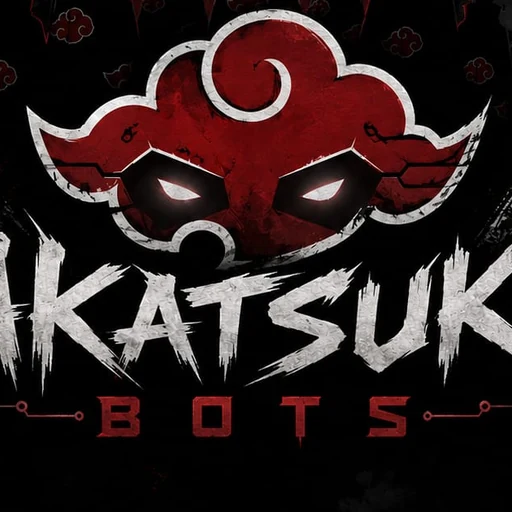
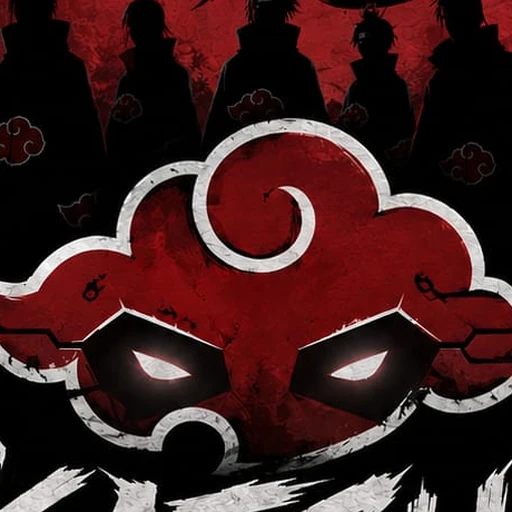
feat: add official contact and core team branding

diff --git a/frontend/src/App.tsx b/frontend/src/App.tsx
@@ -1,17 +1,17 @@
 import {useEffect,useRef,useState} from 'react';import {Link,NavLink,Route,Routes,useLocation} from 'react-router-dom';import {AnimatePresence,motion,useReducedMotion,useScroll,useTransform} from 'framer-motion';import {ArrowDownRight,ArrowRight,ArrowUpRight,Menu,X,MoveUpRight, Cpu, Code2, Instagram, Linkedin, Github, Mail, Radio, Network, ChevronDown} from 'lucide-react';import {api,mediaUrl,submitApplication} from './api';import type {Member,Event,GalleryImage,Settings} from './api/types';
-const fallback:Settings={club_name:'AKATSUKI',tagline:'Build beyond the expected.',contact_email:'hello@akatsuki.club',instagram_url:'',linkedin_url:'',github_url:'',discord_url:'',college_name:'',footer_text:'Student technology community. Built by curious minds.'};
+const fallback:Settings={club_name:'AKATSUKI',tagline:'Build beyond the expected.',contact_email:'teamakatsukibots@gmail.com',instagram_url:'',linkedin_url:'',github_url:'',discord_url:'',college_name:'',footer_text:'Student technology community. Built by curious minds.'};
 const links=[['Home','/'],['About','/about'],['Domains','/domains'],['Members','/members'],['Events','/events'],['Gallery','/gallery']];
 function BrandIcon(){const [available,setAvailable]=useState(true);return <span className="brand-mark">{available?<img src="/akatsuki-mark.webp" alt="" onError={()=>setAvailable(false)}/> : "A"}</span>}
-function BrandLoader(){const reduce=useReducedMotion();return <motion.div className="brand-loader" initial={{opacity:1}} animate={{opacity:1}} exit={{opacity:0}} transition={{duration:reduce?0:.45}}><motion.img src="/akatsuki-mark.webp" alt="AKATSUKI logo" initial={reduce?false:{opacity:0,scale:.84,filter:'blur(8px)'}} animate={{opacity:1,scale:1,filter:'blur(0px)'}} transition={{duration:reduce?0:.8,ease:[.22,1,.36,1]}}/><div className="mono">AKATSUKI <span>/// SYSTEMS ONLINE</span></div><div className="loader-track"><motion.span initial={{scaleX:0}} animate={{scaleX:1}} transition={{duration:1.05,ease:'easeInOut'}}/></div></motion.div>}
+function BrandLoader(){const reduce=useReducedMotion();return <motion.div className="brand-loader" initial={{opacity:1}} animate={{opacity:1}} exit={{opacity:0}} transition={{duration:reduce?0:.45}}><motion.img src="/akatsuki-full.webp" alt="AKATSUKI BOTS logo" initial={reduce?false:{opacity:0,scale:.84,filter:'blur(8px)'}} animate={{opacity:1,scale:1,filter:'blur(0px)'}} transition={{duration:reduce?0:.8,ease:[.22,1,.36,1]}}/><div className="mono">AKATSUKI <span>/// SYSTEMS ONLINE</span></div><div className="loader-track"><motion.span initial={{scaleX:0}} animate={{scaleX:1}} transition={{duration:1.05,ease:'easeInOut'}}/></div></motion.div>}
 function ScrollProgress(){const {scrollYProgress}=useScroll();return <motion.div aria-hidden="true" className="scroll-progress" style={{scaleX:scrollYProgress}}/>}
 function App(){const [booting,setBooting]=useState(true);useEffect(()=>{const timer=window.setTimeout(()=>setBooting(false),1250);return()=>window.clearTimeout(timer)},[]);const [settings,setSettings]=useState(fallback);useEffect(()=>{api.settings().then(setSettings).catch(()=>{});},[]);return <><AnimatePresence>{booting&&<BrandLoader/>}</AnimatePresence><ScrollProgress/><Navbar/><AnimatePresence mode="wait"><Routes><Route path="/" element={<Home settings={settings}/>}/><Route path="/about" element={<About/>}/><Route path="/domains" element={<Domains/>}/><Route path="/members" element={<MembersPage/>}/><Route path="/events" element={<EventsPage/>}/><Route path="/gallery" element={<GalleryPage/>}/><Route path="/join" element={<Join/>}/><Route path="/contact" element={<Contact settings={settings}/>}/></Routes></AnimatePresence><Footer settings={settings}/></>}
 function Navbar(){const [open,setOpen]=useState(false),[scrolled,setScrolled]=useState(false);const location=useLocation();useEffect(()=>{const fn=()=>setScrolled(scrollY>24);window.addEventListener('scroll',fn);return()=>window.removeEventListener('scroll',fn)},[]);useEffect(()=>setOpen(false),[location.pathname]);return <header className={`nav ${scrolled?'nav-solid':''}`}><Link className="brand" to="/" aria-label="AKATSUKI home"><BrandIcon/><span>AKATSUKI<span className="brand-dot">.</span></span></Link><nav className="nav-links">{links.map(([label,to])=><NavLink key={to} to={to} end={to==='/'}>{label}</NavLink>)}</nav><Link to="/join" className="button button-small nav-cta">JOIN AKATSUKI <ArrowUpRight size={15}/></Link><button className="menu-toggle" onClick={()=>setOpen(!open)} aria-label={open?'Close menu':'Open menu'}>{open?<X/>:<Menu/>}</button>{open&&<motion.nav className="mobile-menu" initial={{opacity:0,y:-8}} animate={{opacity:1,y:0}}>{links.map(([label,to])=><Link key={to} to={to}>{label}<ArrowUpRight size={16}/></Link>)}<Link className="mobile-join" to="/join">JOIN AKATSUKI <ArrowRight size={16}/></Link></motion.nav>}</header>}
 function Footer({settings}:{settings:Settings}){return <footer className="footer"><div className="footer-main"><div><Link to="/" className="brand footer-brand"><BrandIcon/><span>AKATSUKI<span className="brand-dot">.</span></span></Link><p>{settings.footer_text}</p><div className="socials">{settings.github_url&&<a href={settings.github_url} aria-label="GitHub"><Github/></a>}{settings.linkedin_url&&<a href={settings.linkedin_url} aria-label="LinkedIn"><Linkedin/></a>}{settings.instagram_url&&<a href={settings.instagram_url} aria-label="Instagram"><Instagram/></a>}</div></div><div><div className="mono overline">EXPLORE</div><Link to="/about">About us</Link><Link to="/domains">Domains</Link><Link to="/members">Core team</Link></div><div><div className="mono overline">GET INVOLVED</div><Link to="/events">Events</Link><Link to="/gallery">Gallery</Link><Link to="/join">Join the team</Link></div><div><div className="mono overline">CONTACT</div><a href={`mailto:${settings.contact_email}`}>{settings.contact_email}</a>{settings.college_name&&<span>{settings.college_name}</span>}</div></div><div className="footer-bottom"><span>© {new Date().getFullYear()} {settings.club_name} — Student Technology Community</span><span className="mono">BUILT TO EXPLORE THE UNKNOWN <span className="brand-dot">●</span></span></div></footer>}
 function Page({eyebrow,title,children}:{eyebrow:string;title:React.ReactNode;children:React.ReactNode}){return <motion.main className="page" initial={{opacity:0,y:12}} animate={{opacity:1,y:0}} exit={{opacity:0,y:-8}} transition={{duration:.35}}><div className="page-head"><div className="mono overline">{eyebrow}</div><h1>{title}</h1></div>{children}</motion.main>}
 function Reveal({children,className=''}:{children:React.ReactNode;className?:string}){const reduce=useReducedMotion();return <motion.div className={className} initial={reduce?false:{opacity:0,y:25}} whileInView={{opacity:1,y:0}} viewport={{once:true,amount:.15}} transition={{duration:.6,ease:[.22,1,.36,1]}}>{children}</motion.div>}
-function Home({settings}:{settings:Settings}){const heroRef=useRef<HTMLElement>(null);const reduced=useReducedMotion();const {scrollYProgress:heroProgress}=useScroll({target:heroRef,offset:['start start','end start']});const logoY=useTransform(heroProgress,[0,1],[0,-145]);const logoScale=useTransform(heroProgress,[0,1],[1,.86]);const heroFade=useTransform(heroProgress,[0,.78],[1,.16]);const contentY=useTransform(heroProgress,[0,1],[0,-44]);const [members,setMembers]=useState<Member[]>([]),[events,setEvents]=useState<Event[]>([]);useEffect(()=>{api.members().then(setMembers).catch(()=>{});api.events().then(setEvents).catch(()=>{});},[]);return <main><section ref={heroRef} className="hero"><div className="hero-grid"/><div className="hero-orbit orbit-one"/><div className="hero-orbit orbit-two"/><div className="hero-ring"><span/></div><motion.img className="hero-logo" src="/akatsuki-full.webp" alt="AKATSUKI BOTS insignia" style={reduced?{y:0,scale:1,opacity:1}:{y:logoY,scale:logoScale,opacity:heroFade}} initial={reduced?false:{opacity:0,scale:.9}} animate={{opacity:.72,scale:1}} transition={{duration:1.15,delay:.2,ease:[.22,1,.36,1]}}/><motion.div className="hero-content" style={reduced?{y:0,opacity:1}:{y:contentY,opacity:heroFade}} initial={{opacity:0,y:24}} animate={{opacity:1,y:0}} transition={{duration:.8,delay:.1}}><div className="mono hero-kicker"><span className="status-dot"/> STUDENT ENGINEERING COLLECTIVE <span className="kicker-line"/></div><h1>AKATSUKI<span className="hero-period">.</span></h1><div className="hero-subtitle"><span className="red-rule"/>BUILD BEYOND THE EXPECTED</div><p>A student-driven technical community exploring robotics, artificial intelligence and the systems shaping tomorrow.</p><div className="hero-actions"><Link to="/join" className="button">JOIN AKATSUKI <ArrowUpRight size={17}/></Link><Link to="/domains" className="button button-ghost">EXPLORE OUR DOMAINS <ArrowDownRight size={17}/></Link></div></motion.div><div className="hero-side mono">AKATSUKI <span>BUILD / RESEARCH / COMMUNITY</span></div><div className="hero-bottom"><span className="mono">01 / 04 — BUILDING WHAT’S NEXT</span><a href="#intro" className="scroll-link mono">SCROLL TO EXPLORE <ChevronDown size={15}/></a><span className="mono">17° 23' N — 78° 29' E</span></div><div className="hero-glow"/></section><section id="intro" className="intro-section section-wrap"><div className="section-index mono">01 <span>— WHO WE ARE</span></div><div className="intro-copy"><h2>We turn <em>curiosity</em><br/>into capability.</h2><p>AKATSUKI is a student-built engineering collective. We bring ambitious people together to learn by making—connecting physical systems with intelligent software to solve real problems.</p><Link to="/about" className="text-link">MEET AKATSUKI <ArrowUpRight size={16}/></Link></div><div className="intro-stamp"><span>技術</span><small>TECHNOLOGY<br/>WITHOUT LIMITS</small></div></section><section className="domain-preview"><div className="section-wrap"><div className="section-heading"><div><div className="mono overline">02 — OUR DOMAINS</div><h2>Two sides.<br/><em>One purpose.</em></h2></div><Link className="text-link" to="/domains">EXPLORE THE DOMAINS <ArrowUpRight size={16}/></Link></div><div className="domain-grid"><DomainTile kind="hardware"/><DomainTile kind="software"/></div></div></section><section className="team-preview section-wrap"><div className="section-heading"><div><div className="mono overline">03 — CORE TEAM</div><h2>The people building<br/><em>AKATSUKI.</em></h2></div><Link className="text-link" to="/members">VIEW ALL MEMBERS <ArrowUpRight size={16}/></Link></div><div className="member-grid">{members.slice(0,4).map(m=><MemberCard key={m.id} member={m}/>)}{members.length===0&&<Empty text="Core team profiles will appear here once published."/>}</div></section><section className="build-section"><div className="build-bg-mark">A</div><div className="section-wrap build-inner"><div className="mono overline">04 — WHAT WE BUILD</div><h2>Ideas need<br/><em>infrastructure.</em></h2><p>From an autonomous robot navigating a room to a model finding patterns in data—we build things that move the frontier forward.</p><div className="build-tags"><span>ROBOTICS</span><span>INTELLIGENT SYSTEMS</span><span>CONNECTED DEVICES</span><span>APPLIED AI</span></div></div></section><section className="events-preview section-wrap"><div className="section-heading"><div><div className="mono overline">05 — FIELD NOTES</div><h2>Gather. Learn.<br/><em>Build together.</em></h2></div><Link className="text-link" to="/events">ALL EVENTS <ArrowUpRight size={16}/></Link></div><div className="event-list">{events.slice(0,3).map((e,i)=><EventRow event={e} index={i}/>)}{events.length===0&&<Empty text="Workshops, build nights and showcases will be listed here."/>}</div></section><JoinCta/></main>}
+function Home({settings}:{settings:Settings}){const heroRef=useRef<HTMLElement>(null);const reduced=useReducedMotion();const {scrollYProgress:heroProgress}=useScroll({target:heroRef,offset:['start start','end start']});const logoY=useTransform(heroProgress,[0,1],[0,-145]);const logoScale=useTransform(heroProgress,[0,1],[1,.86]);const heroFade=useTransform(heroProgress,[0,.78],[1,.16]);const contentY=useTransform(heroProgress,[0,1],[0,-44]);const [members,setMembers]=useState<Member[]>([]),[events,setEvents]=useState<Event[]>([]);useEffect(()=>{api.members().then(setMembers).catch(()=>{});api.events().then(setEvents).catch(()=>{});},[]);return <main><section ref={heroRef} className="hero"><div className="hero-grid"/><div className="hero-orbit orbit-one"/><div className="hero-orbit orbit-two"/><div className="hero-ring"><span/></div><motion.img className="hero-logo" src="/akatsuki-seal.webp" alt="AKATSUKI insignia" style={reduced?{y:0,scale:1,opacity:1}:{y:logoY,scale:logoScale,opacity:heroFade}} initial={reduced?false:{opacity:0,scale:.9}} animate={{opacity:1,scale:1}} transition={{duration:1.15,delay:.2,ease:[.22,1,.36,1]}}/><motion.div className="hero-content" style={reduced?{y:0,opacity:1}:{y:contentY,opacity:heroFade}} initial={{opacity:0,y:24}} animate={{opacity:1,y:0}} transition={{duration:.8,delay:.1}}><div className="mono hero-kicker"><span className="status-dot"/> STUDENT ENGINEERING COLLECTIVE <span className="kicker-line"/></div><h1 className="hero-wordmark-heading"><img src="/akatsuki-wordmark.webp" alt="AKATSUKI"/><span className="sr-only">AKATSUKI</span></h1><div className="hero-subtitle"><span className="red-rule"/>BUILD BEYOND THE EXPECTED</div><p>A student-driven technical community exploring robotics, artificial intelligence and the systems shaping tomorrow.</p><div className="hero-actions"><Link to="/join" className="button">JOIN AKATSUKI <ArrowUpRight size={17}/></Link><Link to="/domains" className="button button-ghost">EXPLORE OUR DOMAINS <ArrowDownRight size={17}/></Link></div></motion.div><div className="hero-side mono">AKATSUKI <span>BUILD / RESEARCH / COMMUNITY</span></div><div className="hero-bottom"><span className="mono">01 / 04 — BUILDING WHAT’S NEXT</span><a href="#intro" className="scroll-link mono">SCROLL TO EXPLORE <ChevronDown size={15}/></a><span className="mono">17° 23' N — 78° 29' E</span></div><div className="hero-glow"/></section><motion.section id="intro" initial={{opacity:0,y:34}} whileInView={{opacity:1,y:0}} viewport={{once:true,amount:.14}} transition={{duration:.8,ease:[.22,1,.36,1]}} className="intro-section section-wrap"><div className="section-index mono">01 <span>— WHO WE ARE</span></div><div className="intro-copy"><h2>We turn <em>curiosity</em><br/>into capability.</h2><p>AKATSUKI is a student-built engineering collective. We bring ambitious people together to learn by making—connecting physical systems with intelligent software to solve real problems.</p><Link to="/about" className="text-link">MEET AKATSUKI <ArrowUpRight size={16}/></Link></div><div className="intro-stamp"><span>技術</span><small>TECHNOLOGY<br/>WITHOUT LIMITS</small></div></motion.section><motion.section className="domain-preview" initial={{opacity:0,y:34}} whileInView={{opacity:1,y:0}} viewport={{once:true,amount:.14}} transition={{duration:.8,ease:[.22,1,.36,1]}}><div className="section-wrap"><div className="section-heading"><div><div className="mono overline">02 — OUR DOMAINS</div><h2>Two sides.<br/><em>One purpose.</em></h2></div><Link className="text-link" to="/domains">EXPLORE THE DOMAINS <ArrowUpRight size={16}/></Link></div><div className="domain-grid"><DomainTile kind="hardware"/><DomainTile kind="software"/></div></div></motion.section><motion.section className="team-preview section-wrap" initial={{opacity:0,y:34}} whileInView={{opacity:1,y:0}} viewport={{once:true,amount:.14}} transition={{duration:.8,ease:[.22,1,.36,1]}}><div className="section-heading"><div><div className="mono overline">03 — CORE TEAM</div><h2>The people building<br/><em>AKATSUKI.</em></h2></div><Link className="text-link" to="/members">VIEW ALL MEMBERS <ArrowUpRight size={16}/></Link></div><div className="member-grid">{members.slice(0,4).map(m=><MemberCard key={m.id} member={m}/>)}{members.length===0&&<Empty text="Core team profiles will appear here once published."/>}</div></motion.section><motion.section className="build-section" initial={{opacity:0,y:34}} whileInView={{opacity:1,y:0}} viewport={{once:true,amount:.14}} transition={{duration:.8,ease:[.22,1,.36,1]}}><div className="build-bg-mark">A</div><div className="section-wrap build-inner"><div className="mono overline">04 — WHAT WE BUILD</div><h2>Ideas need<br/><em>infrastructure.</em></h2><p>From an autonomous robot navigating a room to a model finding patterns in data—we build things that move the frontier forward.</p><div className="build-tags"><span>ROBOTICS</span><span>INTELLIGENT SYSTEMS</span><span>CONNECTED DEVICES</span><span>APPLIED AI</span></div></div></motion.section><motion.section className="events-preview section-wrap" initial={{opacity:0,y:34}} whileInView={{opacity:1,y:0}} viewport={{once:true,amount:.14}} transition={{duration:.8,ease:[.22,1,.36,1]}}><div className="section-heading"><div><div className="mono overline">05 — FIELD NOTES</div><h2>Gather. Learn.<br/><em>Build together.</em></h2></div><Link className="text-link" to="/events">ALL EVENTS <ArrowUpRight size={16}/></Link></div><div className="event-list">{events.slice(0,3).map((e,i)=><EventRow event={e} index={i}/>)}{events.length===0&&<Empty text="Workshops, build nights and showcases will be listed here."/>}</div></motion.section><JoinCta/></main>}
 function DomainTile({kind}:{kind:'hardware'|'software'}){const hw=kind==='hardware';return <Link className={`domain-tile ${kind}`} to="/domains"><div className="tile-top mono"><span>AKATSUKI // {hw?'HARDWARE':'SOFTWARE'}</span><ArrowUpRight size={17}/></div><div className="tile-graphic">{hw?<div className="circuit-art"><Cpu size={84} strokeWidth={.8}/><span/><i/><b/></div>:<div className="network-art"><Network size={88} strokeWidth={.8}/><i/><i/><i/></div>}</div><div className="tile-copy"><div><h3>{hw?'Physical intelligence.':'Intelligence, engineered.'}</h3><p>{hw?'From embedded systems to autonomous machines.':'From machine learning to products that scale.'}</p></div><span className="tile-number mono">0{hw?'1':'2'}</span></div><div className="tile-tags mono">{(hw?['ROBOTICS','EMBEDDED','IOT']:['AI / ML','DATA','SOFTWARE']).map(t=><span>{t}</span>)}</div></Link>}
-function MemberCard({member:m}:{member:Member}){return <motion.article className="member-card" initial={{opacity:0,y:22}} whileInView={{opacity:1,y:0}} viewport={{once:true,amount:.18}} transition={{duration:.55,ease:[.22,1,.36,1]}} whileHover={{y:-5}}><div className="member-photo">{m.photo?<img src={mediaUrl(m.photo)} loading="lazy" alt={m.name}/>:<div className="avatar-fallback">{m.name.split(' ').map(x=>x[0]).join('').slice(0,2)}</div>}<span className="member-domain mono">{m.domain}</span></div><div className="member-info"><h3>{m.name}</h3><span>{m.position}</span></div><div className="member-links">{m.github&&<a href={m.github} aria-label={`${m.name} GitHub`}><Github size={15}/></a>}{m.linkedin&&<a href={m.linkedin} aria-label={`${m.name} LinkedIn`}><Linkedin size={15}/></a>}</div></motion.article>}
+function MemberCard({member:m}:{member:Member}){return <motion.article className="member-card" initial={{opacity:0,y:22}} whileInView={{opacity:1,y:0}} viewport={{once:true,amount:.18}} transition={{duration:.55,ease:[.22,1,.36,1]}} whileHover={{y:-5}}><div className="member-photo">{m.photo?<img src={mediaUrl(m.photo)} loading="lazy" alt={m.name}/>:<div className="avatar-fallback">{m.name.split(' ').map(x=>x[0]).join('').slice(0,2)}</div>}<span className="member-domain mono">{m.domain}</span></div><div className="member-info"><h3>{m.name}</h3><span>{m.position}</span></div><div className="member-links">{m.instagram&&<a href={m.instagram} aria-label={`${m.name} Instagram`}><Instagram size={15}/></a>}{m.github&&<a href={m.github} aria-label={`${m.name} GitHub`}><Github size={15}/></a>}{m.linkedin&&<a href={m.linkedin} aria-label={`${m.name} LinkedIn`}><Linkedin size={15}/></a>}</div></motion.article>}
 function MembersPage(){const [items,setItems]=useState<Member[]>([]),[filter,setFilter]=useState('ALL'),[loading,setLoading]=useState(true);useEffect(()=>{api.members().then(setItems).catch(()=>{}).finally(()=>setLoading(false))},[]);const result=filter==='ALL'?items:items.filter(x=>x.domain===filter);return <Page eyebrow="PEOPLE / 01 — CORE TEAM" title={<>The minds behind<br/><em>the machine.</em></>}><div className="filter-row">{['ALL','HARDWARE','SOFTWARE'].map(f=><button className={filter===f?'filter-active':''} onClick={()=>setFilter(f)}>{f}</button>)}<span className="mono">{result.length.toString().padStart(2,'0')} MEMBERS</span></div>{loading?<SkeletonGrid/>:<div className="member-grid member-page-grid">{result.map(m=><MemberCard key={m.id} member={m}/>)}{!result.length&&<Empty text="No core members available."/>}</div>}</Page>}
 function Domains(){return <Page eyebrow="CAPABILITIES / 02 — DOMAINS" title={<>One community.<br/><em>Two disciplines.</em></>}><p className="page-lede">We bring software and hardware into the same room—because meaningful technology lives at the intersection.</p><div className="domain-detail"><div className="detail-symbol"><Cpu size={52}/><span className="mono">01</span></div><div><div className="mono overline">AKATSUKI // HARDWARE</div><h2>Make the<br/><em>physical intelligent.</em></h2><p>The hardware division builds intelligent physical systems—from the first circuit to integrated, autonomous machines. We prototype, test and iterate at the boundary of electronics, mechanics and code.</p><TagList items={['Robotics','Embedded Systems','IoT','Electronics','PCB Design','Automation','Drones','Sensors','Control Systems','Computer Vision','ROS','Mechanical Integration']}/></div></div><div className="domain-detail reverse"><div className="detail-symbol"><Code2 size={52}/><span className="mono">02</span></div><div><div className="mono overline">AKATSUKI // SOFTWARE</div><h2>Give ideas<br/><em>intelligence.</em></h2><p>The software division designs intelligent computational systems and digital products—from learning algorithms to dependable applications and data infrastructure.</p><TagList items={['Artificial Intelligence','Machine Learning','Deep Learning','Data Science','Generative AI','Computer Vision','NLP','Web Development','App Development','Cloud','APIs','Data Engineering']}/></div></div></Page>}
 function TagList({items}:{items:string[]}){return <div className="tag-list">{items.map(x=><span key={x}>{x}</span>)}</div>}

diff --git a/frontend/src/styles.css b/frontend/src/styles.css
@@ -30,3 +30,8 @@
 @media(max-width:800px){.hero-logo{right:-12%;width:70vw;height:61vh;opacity:.58}}
 @media(max-width:560px){.brand-mark{width:33px;height:33px}.hero-logo{right:-28%;width:88vw;height:56vh;opacity:.42}.brand-loader>img{width:190px}}
 @media(prefers-reduced-motion:reduce){.scroll-progress{display:none}.hero-logo,.member-card{will-change:auto}}
+.hero-wordmark-heading{width:min(64vw,700px);max-width:100%;font-size:0;line-height:0;letter-spacing:normal;margin:31px 0 23px}
+.hero-wordmark-heading img{display:block;width:100%;height:auto;mix-blend-mode:screen;filter:drop-shadow(0 0 22px #d7d4d411)}
+.hero-logo{filter:brightness(1.13) saturate(1.13) drop-shadow(0 0 62px #c3002e45)}
+@media(max-width:800px){.hero-wordmark-heading{width:min(80vw,590px)}}
+@media(max-width:560px){.hero-wordmark-heading{width:min(86vw,480px);margin:25px 0 18px}}

diff --git a/frontend/src/api/types.ts b/frontend/src/api/types.ts
@@ -1,4 +1,4 @@
-export type Member={id:number;name:string;photo:string|null;position:string;domain:'HARDWARE'|'SOFTWARE';bio:string;github:string;linkedin:string;email:string};
+export type Member={id:number;name:string;photo:string|null;position:string;domain:'HARDWARE'|'SOFTWARE';bio:string;github:string;linkedin:string;instagram:string};
 export type Event={id:number;title:string;description:string;image:string;date:string;location:string;registration_url:string};
 export type GalleryImage={id:number;image:string;caption:string;event:number|null};
 export type Settings={club_name:string;tagline:string;contact_email:string;instagram_url:string;linkedin_url:string;github_url:string;discord_url:string;college_name:string;footer_text:string};

diff --git a/backend/core/management/commands/seed_data.py b/backend/core/management/commands/seed_data.py
@@ -1,7 +1,17 @@
 from django.core.management.base import BaseCommand
 from core.models import SiteSettings
+from members.models import CoreMember
+TEAM = (
+ {'name':'Suraj Kumar','position':'Core Member','domain':CoreMember.Domain.SOFTWARE,'github':'https://github.com/GitxSuraj','linkedin':'https://www.linkedin.com/in/carteacan/','instagram':'https://www.instagram.com/suraj.sha.rma/','display_order':1},
+ {'name':'Devesh Kumar','position':'Core Member','domain':CoreMember.Domain.HARDWARE,'linkedin':'https://www.linkedin.com/in/devesh-kumar-4056b7274/','instagram':'https://www.instagram.com/spidermanfromwalmart/','display_order':2},
+)
 class Command(BaseCommand):
- help='Create default AKATSUKI site settings.'
+ help='Create the AKATSUKI site settings and supplied core team profiles.'
  def handle(self,*args,**kwargs):
-  obj,created=SiteSettings.objects.get_or_create(pk=1)
-  self.stdout.write(self.style.SUCCESS('Default settings created.' if created else 'Settings already exist.'))
+  settings,_=SiteSettings.objects.get_or_create(pk=1)
+  if settings.contact_email in ('','hello@akatsuki.club'):
+   settings.contact_email='teamakatsukibots@gmail.com'; settings.save(update_fields=['contact_email'])
+  added=0
+  for data in TEAM:
+   _,created=CoreMember.objects.get_or_create(name=data['name'],defaults=data); added+=created
+  self.stdout.write(self.style.SUCCESS(f'Site settings ready; {added} core team profile(s) added.'))

diff --git a/backend/config/settings.py b/backend/config/settings.py
@@ -26,8 +26,7 @@ DEFAULT_AUTO_FIELD='django.db.models.BigAutoField'
 CORS_ALLOWED_ORIGINS=[x.strip() for x in os.getenv('CORS_ALLOWED_ORIGINS','http://localhost:5173').split(',') if x.strip()]
 CSRF_TRUSTED_ORIGINS=CORS_ALLOWED_ORIGINS
 REST_FRAMEWORK={'DEFAULT_PERMISSION_CLASSES':['rest_framework.permissions.AllowAny'],'DEFAULT_THROTTLE_CLASSES':['rest_framework.throttling.AnonRateThrottle'],'DEFAULT_THROTTLE_RATES':{'anon':'300/hour','application':'3/hour'}}
-EMAIL_HOST=os.getenv('EMAIL_HOST',''); EMAIL_PORT=int(os.getenv('EMAIL_PORT','587')); EMAIL_HOST_USER=os.getenv('EMAIL_HOST_USER',''); EMAIL_HOST_PASSWORD=os.getenv('EMAIL_HOST_PASSWORD',''); EMAIL_USE_TLS=os.getenv('EMAIL_USE_TLS','True').lower()=='true'; DEFAULT_FROM_EMAIL=os.getenv('DEFAULT_FROM_EMAIL','AKATSUKI <noreply@akatsuki.club>')
+EMAIL_HOST=os.getenv('EMAIL_HOST',''); EMAIL_PORT=int(os.getenv('EMAIL_PORT','587')); EMAIL_HOST_USER=os.getenv('EMAIL_HOST_USER',''); EMAIL_HOST_PASSWORD=os.getenv('EMAIL_HOST_PASSWORD',''); EMAIL_USE_TLS=os.getenv('EMAIL_USE_TLS','True').lower()=='true'; DEFAULT_FROM_EMAIL=os.getenv('DEFAULT_FROM_EMAIL','AKATSUKI <teamakatsukibots@gmail.com>')
 if not EMAIL_HOST: EMAIL_BACKEND='django.core.mail.backends.console.EmailBackend'
 DATA_UPLOAD_MAX_MEMORY_SIZE=10*1024*1024; FILE_UPLOAD_MAX_MEMORY_SIZE=5*1024*1024
 SECURE_CONTENT_TYPE_NOSNIFF=True; X_FRAME_OPTIONS='DENY'; SESSION_COOKIE_SECURE=not DEBUG; CSRF_COOKIE_SECURE=not DEBUG
-

diff --git a/backend/core/models.py b/backend/core/models.py
@@ -1,6 +1,6 @@
 from django.db import models
 class SiteSettings(models.Model):
- club_name=models.CharField(max_length=100,default='AKATSUKI'); tagline=models.CharField(max_length=200,default='Build beyond the expected.'); contact_email=models.EmailField(default='hello@akatsuki.club'); instagram_url=models.URLField(blank=True); linkedin_url=models.URLField(blank=True); github_url=models.URLField(blank=True); discord_url=models.URLField(blank=True); college_name=models.CharField(max_length=200,blank=True); footer_text=models.CharField(max_length=250,default='Student technology community. Built by curious minds.')
+ club_name=models.CharField(max_length=100,default='AKATSUKI'); tagline=models.CharField(max_length=200,default='Build beyond the expected.'); contact_email=models.EmailField(default='teamakatsukibots@gmail.com'); instagram_url=models.URLField(blank=True); linkedin_url=models.URLField(blank=True); github_url=models.URLField(blank=True); discord_url=models.URLField(blank=True); college_name=models.CharField(max_length=200,blank=True); footer_text=models.CharField(max_length=250,default='Student technology community. Built by curious minds.')
  class Meta: verbose_name_plural='site settings'
  def __str__(self): return self.club_name
 

diff --git a/backend/core/migrations/0002_alter_sitesettings_contact_email.py b/backend/core/migrations/0002_alter_sitesettings_contact_email.py
@@ -1,0 +1,28 @@
+# Generated by Django 5.2.17 on 2026-09-28 23:02
+
+from django.db import migrations, models
+
+
+def update_existing_contact(apps, schema_editor):
+    SiteSettings = apps.get_model('core', 'SiteSettings')
+    SiteSettings.objects.filter(contact_email__in=['hello@akatsuki.club', '']).update(contact_email='teamakatsukibots@gmail.com')
+
+def reverse_contact_update(apps, schema_editor):
+    SiteSettings = apps.get_model('core', 'SiteSettings')
+    SiteSettings.objects.filter(contact_email='teamakatsukibots@gmail.com').update(contact_email='hello@akatsuki.club')
+
+class Migration(migrations.Migration):
+
+    dependencies = [
+        ('core', '0001_initial'),
+    ]
+
+    operations = [
+        migrations.RunPython(update_existing_contact, reverse_contact_update),
+        migrations.AlterField(
+            model_name='sitesettings',
+            name='contact_email',
+            field=models.EmailField(default='teamakatsukibots@gmail.com', max_length=254),
+        ),
+    ]
+

diff --git a/backend/core/views.py b/backend/core/views.py
@@ -4,5 +4,5 @@ from .models import SiteSettings
 class SettingsView(APIView):
  def get(self,request):
   s=SiteSettings.objects.first()
-  if not s: return Response({'club_name':'AKATSUKI','tagline':'Build beyond the expected.','contact_email':'hello@akatsuki.club','instagram_url':'','linkedin_url':'','github_url':'','discord_url':'','college_name':'','footer_text':'Student technology community. Built by curious minds.'})
+  if not s: return Response({'club_name':'AKATSUKI','tagline':'Build beyond the expected.','contact_email':'teamakatsukibots@gmail.com','instagram_url':'','linkedin_url':'','github_url':'','discord_url':'','college_name':'','footer_text':'Student technology community. Built by curious minds.'})
   return Response({k:getattr(s,k) for k in ('club_name','tagline','contact_email','instagram_url','linkedin_url','github_url','discord_url','college_name','footer_text')})

diff --git a/backend/applications/tests.py b/backend/applications/tests.py
@@ -15,6 +15,10 @@ class PublicApiTests(TestCase):
   CoreMember.objects.create(name='Hidden',position='Lead',domain='SOFTWARE',is_active=False)
   response=APIClient().get('/api/members/')
   self.assertEqual(response.status_code,200); self.assertEqual([x['name'] for x in response.json()],['Visible'])
+ def test_member_api_keeps_email_addresses_private(self):
+  CoreMember.objects.create(name='Private Contact',position='Lead',domain='SOFTWARE',email='member@example.edu',personal_email='private@example.com')
+  response=APIClient().get('/api/members/')
+  self.assertEqual(response.status_code,200); self.assertNotIn('email',response.json()[0]); self.assertNotIn('personal_email',response.json()[0])
  def test_private_applications_are_not_publicly_listed(self):
   response=APIClient().get('/api/applications/')
   self.assertIn(response.status_code,(401,403))

diff --git a/backend/members/admin.py b/backend/members/admin.py
@@ -1,4 +1,9 @@
 from django.contrib import admin
 from .models import CoreMember
 @admin.register(CoreMember)
-class CoreMemberAdmin(admin.ModelAdmin): list_display=('name','position','domain','is_active','display_order'); list_filter=('domain','is_active'); search_fields=('name','position','email'); list_editable=('is_active','display_order'); ordering=('display_order','name')
+class CoreMemberAdmin(admin.ModelAdmin):
+    list_display=('name','position','domain','is_active','display_order')
+    list_filter=('domain','is_active')
+    search_fields=('name','position','email','personal_email')
+    list_editable=('is_active','display_order')
+    ordering=('display_order','name')

diff --git a/backend/members/views.py b/backend/members/views.py
@@ -3,7 +3,7 @@ from rest_framework.permissions import AllowAny
 from .models import CoreMember
 class MemberSerializer(serializers.ModelSerializer):
  photo=serializers.ImageField(use_url=True)
- class Meta: model=CoreMember; fields=('id','name','photo','position','domain','bio','github','linkedin','email')
+ class Meta: model=CoreMember; fields=('id','name','photo','position','domain','bio','github','linkedin','instagram')
 class MemberViewSet(viewsets.ReadOnlyModelViewSet):
  serializer_class=MemberSerializer; permission_classes=[AllowAny]; pagination_class=None
  def get_queryset(self): return CoreMember.objects.filter(is_active=True).order_by('display_order','name')

diff --git a/backend/members/migrations/0003_coremember_instagram_coremember_personal_email.py b/backend/members/migrations/0003_coremember_instagram_coremember_personal_email.py
@@ -1,0 +1,23 @@
+# Generated by Django 5.2.17 on 2026-09-28 23:02
+
+from django.db import migrations, models
+
+
+class Migration(migrations.Migration):
+
+    dependencies = [
+        ('members', '0002_coremember_unique_core_member_email_ci'),
+    ]
+
+    operations = [
+        migrations.AddField(
+            model_name='coremember',
+            name='instagram',
+            field=models.URLField(blank=True),
+        ),
+        migrations.AddField(
+            model_name='coremember',
+            name='personal_email',
+            field=models.EmailField(blank=True, max_length=254),
+        ),
+    ]
